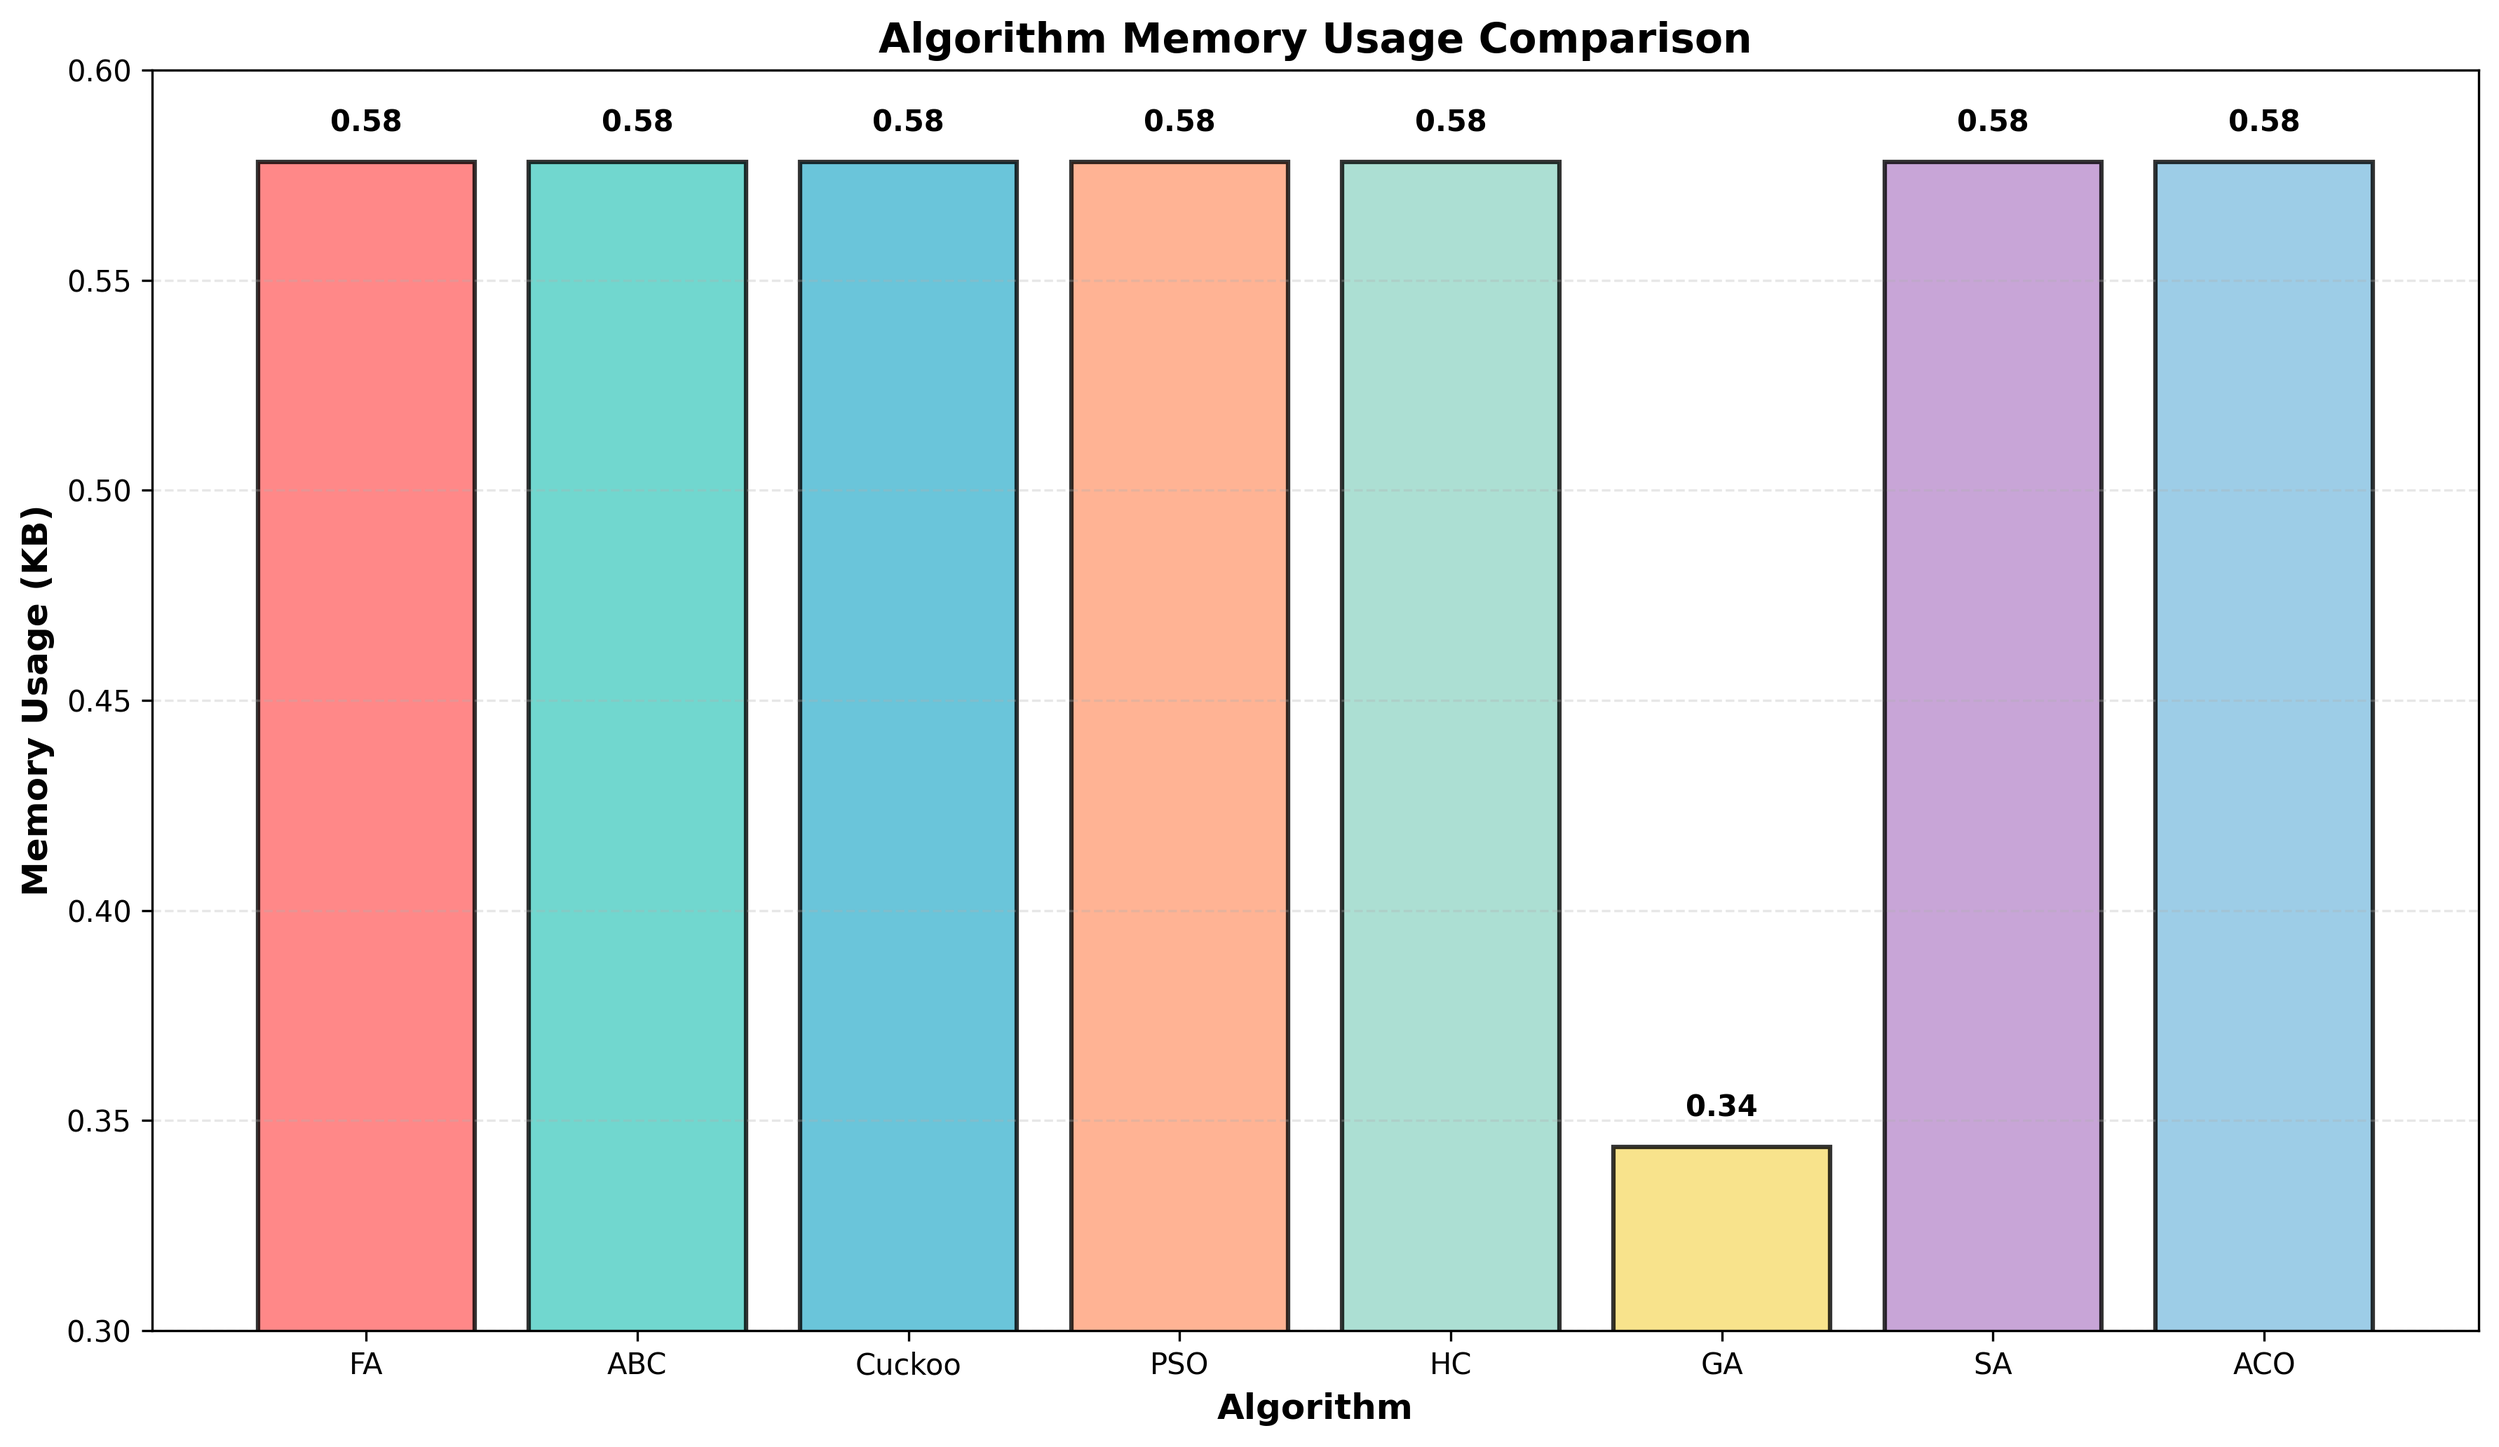
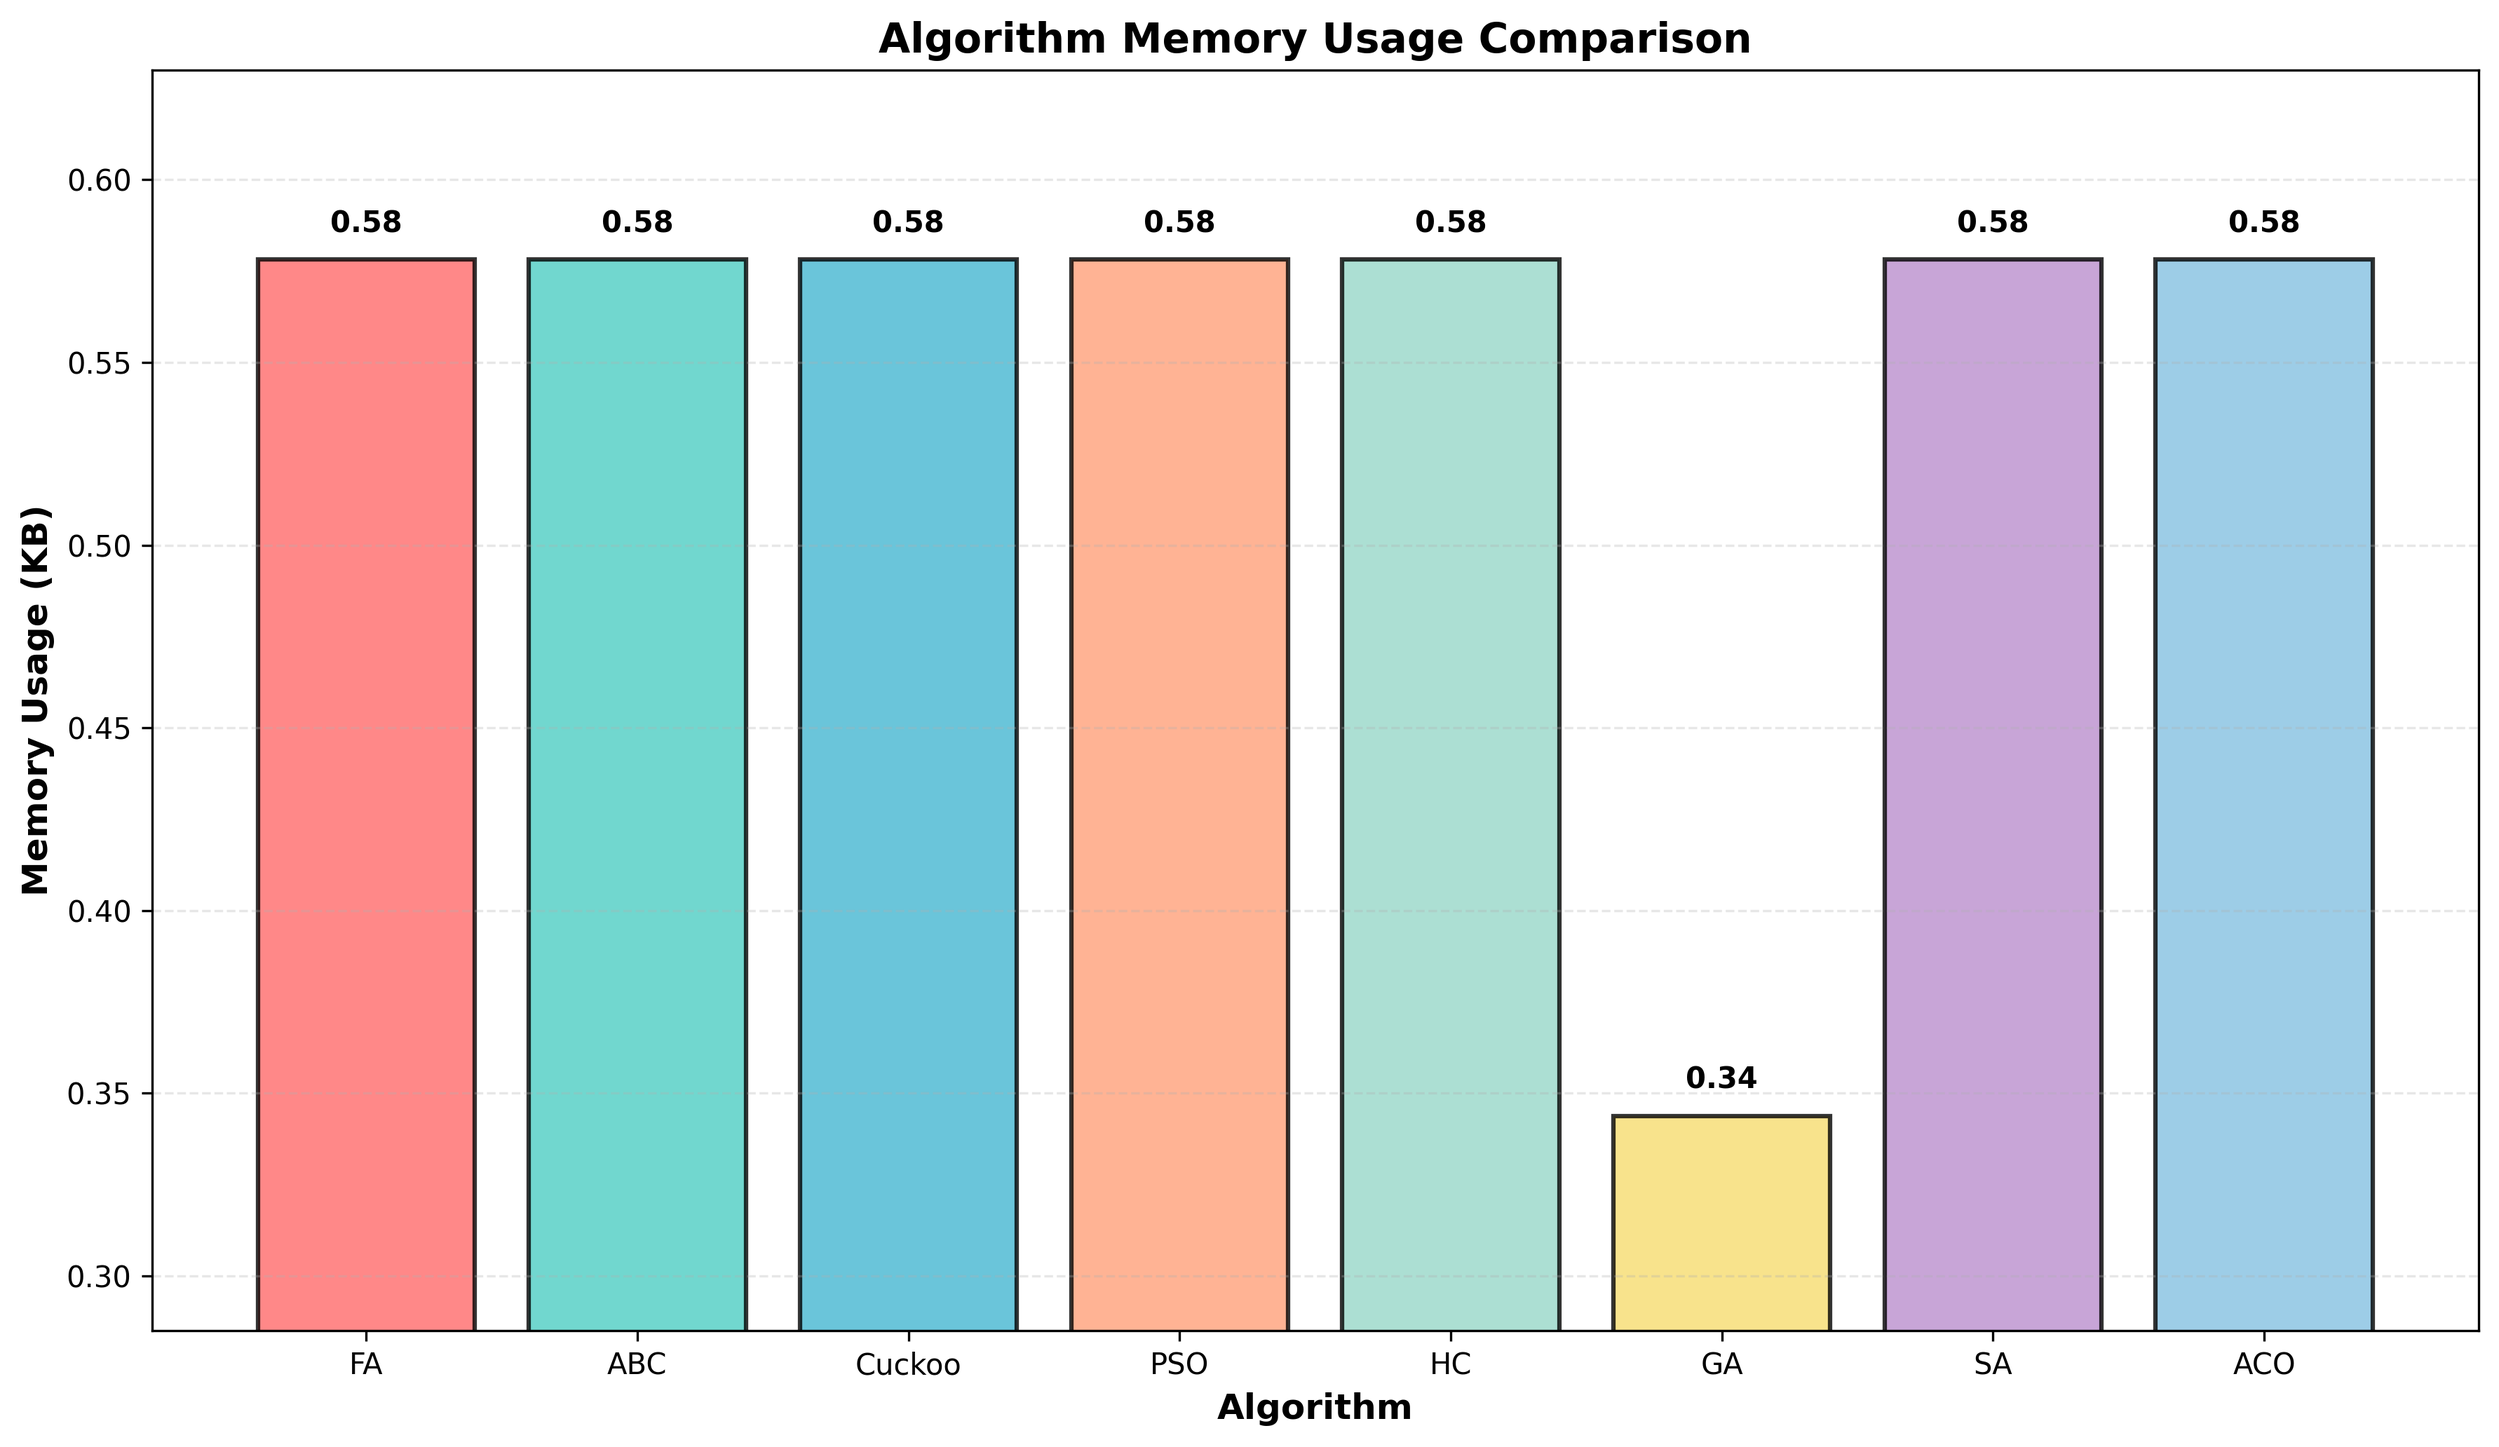
[Fix] Add padding to bar chart

diff --git a/src/visualization/visualize_experiments.py b/src/visualization/visualize_experiments.py
@@ -569,11 +569,16 @@ def plot_memory_bar(results_dict, problem_type='sphere', save_path=None):
         ax.set_xticks(x)
         ax.set_xticklabels(algorithms)
         
-        # Set adaptive y-axis ticks
+        # Set adaptive y-axis ticks with padding
         tick_step = get_nice_tick_step(data_range, max_ticks=10)
         y_min = np.floor(min_memory / tick_step) * tick_step
         y_max = np.ceil(max_memory / tick_step) * tick_step
-        y_ticks = np.arange(y_min, y_max + tick_step, tick_step)
+        # Add padding: 5% at bottom, 10% at top
+        padding_bottom = (y_max - y_min) * 0.05
+        padding_top = (y_max - y_min) * 0.10
+        y_min = max(0, y_min - padding_bottom)
+        y_max = y_max + padding_top
+        y_ticks = np.arange(np.floor(y_min / tick_step) * tick_step, y_max + tick_step, tick_step)
         ax.set_yticks(y_ticks)
         ax.set_ylim(y_min, y_max)
         
